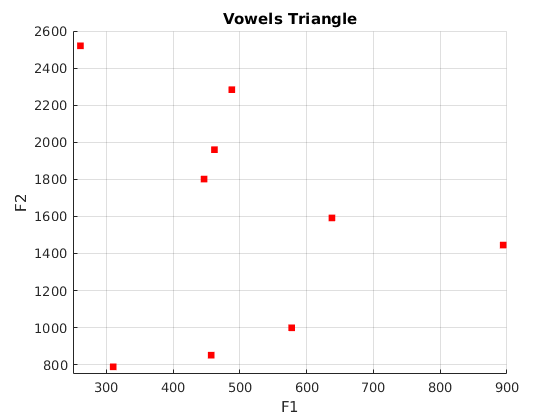
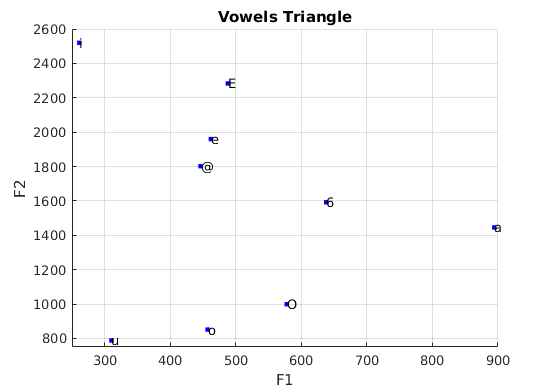
improved vowels triangle

diff --git a/Lab1/Ze/triangle.m b/Lab1/Ze/triangle.m
@@ -1,13 +1,25 @@
 %%
 clear all; close all;
-f = [894.37 487.83 261.22 577.60 310.20 637.77 461.78 456.89 446.21; 1445.51 2283.46 2519.87 999.40 788.42 1591.57 1959.82 851.67 1801.59];
+
+F1 = [894.37 487.83 261.22 577.60 310.20 637.77 461.78 456.89 446.21];
+F2 = [1445.51 2283.46 2519.87 999.40 788.42 1591.57 1959.82 851.67 1801.59];
+
 figure;
 axis([250 900 750 2600]);
 grid on, hold on,
-plot(f(1,:),f(2,:), 'r.', 'markersize', 15);
+plot(F1(1,:),F2(1,:), 'b.', 'markersize', 10);
+
+%labelling
+vowels = {'a','E','i','O','u','6','e','o','@'};
+for i = 1 : numel(F1)
+    text(F1(i), F2(i), vowels(i));
+end
 title('Vowels Triangle');
 xlabel('F1');
 ylabel('F2');
+
+
+
 %%
 
 %894.37 1445.51
